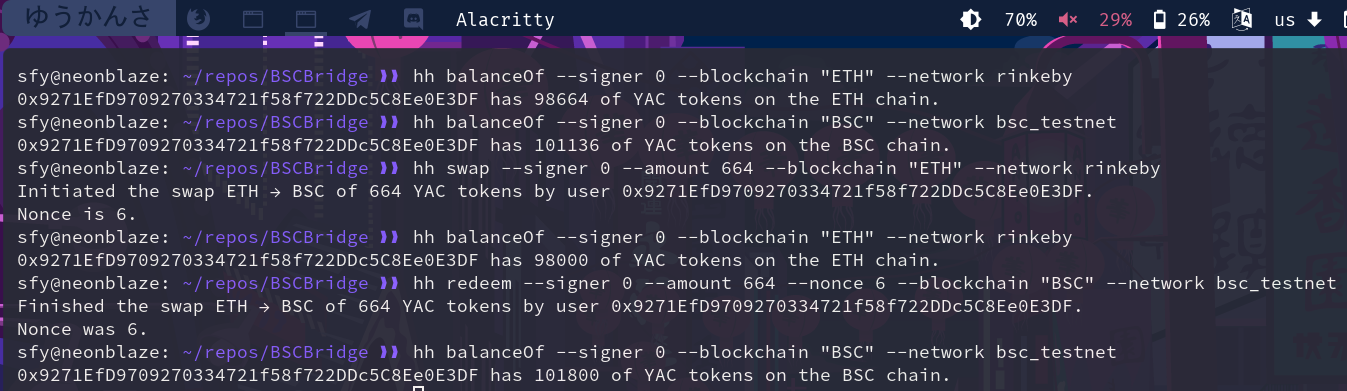
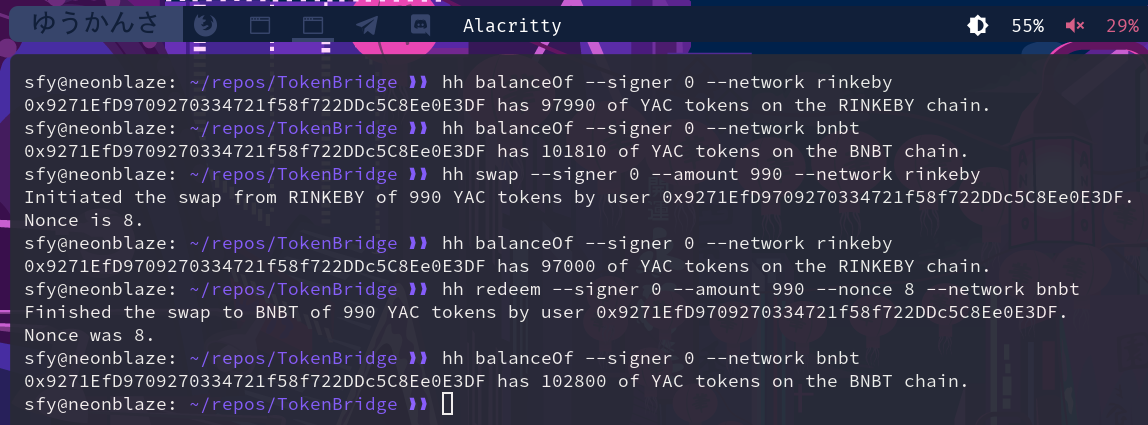
Updated network name and started using dynamic chain identification in tasks.

Changed region(s): [[0.0, 0.0, 1.0, 1.0]]

diff --git a/tasks/redeem.ts b/tasks/redeem.ts
@@ -7,29 +7,26 @@ task("redeem",
   .addParam("signer", "ID of the signer used to make the call.")
   .addParam("amount", "The amount of ERC20 tokens to be swapped.")
   .addParam("nonce", "Bridge operation counter value.")
-  .addParam("blockchain", "Blockchain (ETH or BSC).")
   .setAction(async (args, { ethers }) => {
-    let blockchain: string;
-    let log: string;
 
-    if (args.blockchain === "ETH") {
-      blockchain = config.BRIDGE_ETH_ADDRESS;
-      log = "BSC → ETH";
-    } else if (args.blockchain === "BSC") {
-      blockchain = config.BRIDGE_BSC_ADDRESS;
-      log = "ETH → BSC";
-    } else {
-      throw "ERROR: Blockchain must be ETH or BSC."
-    }
-
+    let bridgeAddress: string;
+    const network = await ethers.provider.getNetwork();
     const signerArray = await ethers.getSigners();
 
+    if (network.chainId === 4) {
+      bridgeAddress = config.BRIDGE_RINKEBY_ADDRESS;
+    } else if (network.chainId === 97) {
+      bridgeAddress = config.BRIDGE_BNBT_ADDRESS;
+    } else {
+      throw "ERROR: Network must be Rinkeby or BNBT."
+    }
+
     const Bridge = await ethers.getContractFactory("Bridge");
-    const bridge = Bridge.attach(blockchain);
+    const bridge = Bridge.attach(bridgeAddress);
 
     let messageHash = ethers.utils.solidityKeccak256(
       ["address", "address", "uint256", "uint256"],
-      [signerArray[args.signer].address, blockchain,
+      [signerArray[args.signer].address, bridgeAddress,
       args.amount, args.nonce]
     );
 
@@ -49,8 +46,8 @@ task("redeem",
     const amount = rRedeem.events[1].args[1];
     const nonce = rRedeem.events[1].args[2];
 
-    console.log("Finished the swap " + log + " of " + amount
-      + " YAC tokens by user " + user + ".\n" + "Nonce was "
+    console.log("Finished the swap to " + network.name.toUpperCase() + " of "
+      + amount + " YAC tokens by user " + user + ".\n" + "Nonce was "
       + nonce + ".");
 
   });

diff --git a/tasks/swap.ts b/tasks/swap.ts
@@ -6,25 +6,22 @@ task("swap",
   "Initiate the swap of ERC20 token between 2 blockchains.")
   .addParam("signer", "ID of the signer used to make the call.")
   .addParam("amount", "The amount of ERC20 tokens to be swapped.")
-  .addParam("blockchain", "Blockchain (ETH or BSC).")
   .setAction(async (args, { ethers }) => {
-    let blockchain: string;
-    let log: string;
 
-    if (args.blockchain === "ETH") {
-      blockchain = config.BRIDGE_ETH_ADDRESS;
-      log = "ETH → BSC";
-    } else if (args.blockchain === "BSC") {
-      blockchain = config.BRIDGE_BSC_ADDRESS;
-      log = "BSC → ETH";
-    } else {
-      throw "ERROR: Blockchain must be ETH or BSC."
-    }
-
+    let bridgeAddress: string;
+    const network = await ethers.provider.getNetwork();
     const signerArray = await ethers.getSigners();
 
+    if (network.chainId === 4) {
+      bridgeAddress = config.BRIDGE_RINKEBY_ADDRESS;
+    } else if (network.chainId === 97) {
+      bridgeAddress = config.BRIDGE_BNBT_ADDRESS;
+    } else {
+      throw "ERROR: Network must be Rinkeby or BNBT."
+    }
+
     const Bridge = await ethers.getContractFactory("Bridge");
-    const bridge = Bridge.attach(blockchain);
+    const bridge = Bridge.attach(bridgeAddress);
 
     const txSwap = bridge.connect(signerArray[args.signer]).swap(
       args.amount
@@ -36,7 +33,7 @@ task("swap",
     const amount = rSwap.events[1].args[1];
     const nonce = rSwap.events[1].args[2];
 
-    console.log("Initiated the swap " + log + " of " + amount
+    console.log("Initiated the swap from " + network.name.toUpperCase() + " of " + amount
       + " YAC tokens by user " + user + ".\n" + "Nonce is " + nonce + ".");
 
   });

diff --git a/tasks/balanceOf.ts b/tasks/balanceOf.ts
@@ -5,27 +5,27 @@ import config from '../config';
 task("balanceOf",
   "Get the balance YAC of the account in the ETH/BSC networks.")
   .addParam("signer", "ID of the signer used to make the call.")
-  .addParam("blockchain", "Blockchain (ETH or BSC).")
   .setAction(async (args, { ethers }) => {
 
-    let blockchain: string;
-
-    if (args.blockchain === "ETH") {
-      blockchain = config.YAC_ETH_ADDRESS;
-    } else if (args.blockchain === "BSC") {
-      blockchain = config.YAC_BSC_ADDRESS;
-    } else {
-      throw "ERROR: Blockchain must be ETH or BSC."
-    }
-
+    let tokenAddress: string;
+    const network = await ethers.provider.getNetwork();
     const signerArray = await ethers.getSigners();
 
+    if (network.chainId === 4) {
+      tokenAddress = config.YAC_RINKEBY_ADDRESS;
+    } else if (network.chainId === 97) {
+      tokenAddress = config.YAC_BNBT_ADDRESS;
+    } else {
+      throw "ERROR: Network must be Rinkeby or BNBT."
+    }
+
     const YetAnotherCoin = await ethers.getContractFactory("YetAnotherCoin");
-    const yetAnotherCoin = YetAnotherCoin.attach(blockchain);
+    const yetAnotherCoin = YetAnotherCoin.attach(tokenAddress);
     const balanceOf = await yetAnotherCoin.balanceOf(
       signerArray[args.signer].address
     );
+
     console.log(signerArray[args.signer].address + " has " + balanceOf
-      + " of YAC tokens on the " + args.blockchain + " chain.");
+      + " of YAC tokens on the " + network.name.toUpperCase() + " chain.");
   });
 

diff --git a/scripts/deploy-bridge-eth.ts b/scripts/deploy-bridge-eth.ts
@@ -6,15 +6,15 @@ const updateDeploymentAddress = async (address: string) => {
   let config: string = './config.ts';
   fs.readFile(config, 'utf-8', (err: unknown, data: string) => {
     if (err) throw err;
-    let regex = /BRIDGE_ETH_ADDRESS: ".*",/g;
+    let regex = /BRIDGE_RINKEBY_ADDRESS: ".*",/g;
     let update = data.replace(
       regex,
-      'BRIDGE_ETH_ADDRESS: "' + address + '",'
+      'BRIDGE_RINKEBY_ADDRESS: "' + address + '",'
     );
 
     fs.writeFile(config, update, 'utf-8', (err: unknown) => {
       if (err) throw err;
-      console.log('Updated BRIDGE_ETH_ADDRESS in config.ts.');
+      console.log('Updated BRIDGE_RINKEBY_ADDRESS in config.ts.');
     });
   });
 };
@@ -22,7 +22,7 @@ const updateDeploymentAddress = async (address: string) => {
 const main = async () => {
   const Bridge = await ethers.getContractFactory("Bridge");
   const bridge = await Bridge.deploy(
-    config.YAC_ETH_ADDRESS
+    config.YAC_RINKEBY_ADDRESS
   );
   await bridge.deployed();
   console.log("Bridge deployed to:", bridge.address);

diff --git a/scripts/deploy-bridge-bsc.ts b/scripts/deploy-bridge-bsc.ts
@@ -6,15 +6,15 @@ const updateDeploymentAddress = async (address: string) => {
   let config: string = './config.ts';
   fs.readFile(config, 'utf-8', (err: unknown, data: string) => {
     if (err) throw err;
-    let regex = /BRIDGE_BSC_ADDRESS: ".*",/g;
+    let regex = /BRIDGE_BNBT_ADDRESS: ".*",/g;
     let update = data.replace(
       regex,
-      'BRIDGE_BSC_ADDRESS: "' + address + '",'
+      'BRIDGE_BNBT_ADDRESS: "' + address + '",'
     );
 
     fs.writeFile(config, update, 'utf-8', (err: unknown) => {
       if (err) throw err;
-      console.log('Updated BRIDGE_BSC_ADDRESS in config.ts.');
+      console.log('Updated BRIDGE_BNBT_ADDRESS in config.ts.');
     });
   });
 };
@@ -22,7 +22,7 @@ const updateDeploymentAddress = async (address: string) => {
 const main = async () => {
   const Bridge = await ethers.getContractFactory("Bridge");
   const bridge = await Bridge.deploy(
-    config.YAC_BSC_ADDRESS
+    config.YAC_BNBT_ADDRESS
   );
   await bridge.deployed();
   console.log("Bridge deployed to:", bridge.address);

diff --git a/test/bridge-test.ts b/test/bridge-test.ts
@@ -17,15 +17,15 @@ describe("Bridge", () => {
 
     const Bridge = await ethers.getContractFactory("Bridge");
     bridge = await Bridge.deploy(
-      config.YAC_ETH_ADDRESS
+      config.YAC_RINKEBY_ADDRESS
     );
     await bridge.deployed();
 
     const YetAnotherCoin = await ethers.getContractFactory("YetAnotherCoin");
-    yetAnotherCoin = YetAnotherCoin.attach(config.YAC_ETH_ADDRESS);
+    yetAnotherCoin = YetAnotherCoin.attach(config.YAC_RINKEBY_ADDRESS);
   });
 
-  it("swap: should be able to initiate the swap of 10 YAC tokens owner → user", async () => {
+  it("swap: should be able to initiate the swap of 10 YAC tokens", async () => {
     await yetAnotherCoin.connect(owner).mint(owner.address, 1000);
 
     const txSwap = bridge.connect(owner).swap(10);

diff --git a/config.ts b/config.ts
@@ -1,8 +1,8 @@
 const config = {
-  BRIDGE_BSC_ADDRESS: "0xF4Fd87c6bACf11984152e59F04451d063ce348ab",
-  BRIDGE_ETH_ADDRESS: "0x03Bf536B5D8ec4D324E71F4775f690988D48180d",
-  YAC_BSC_ADDRESS: "0xf55aBB498A19Fe90B039BC30aAD11C2e9f71bab1",
-  YAC_ETH_ADDRESS: "0xB069A157Ed653d91765eA1E8bAc5c18454A83Ba4"
+  BRIDGE_BNBT_ADDRESS: "0xF4Fd87c6bACf11984152e59F04451d063ce348ab",
+  BRIDGE_RINKEBY_ADDRESS: "0x03Bf536B5D8ec4D324E71F4775f690988D48180d",
+  YAC_BNBT_ADDRESS: "0xf55aBB498A19Fe90B039BC30aAD11C2e9f71bab1",
+  YAC_RINKEBY_ADDRESS: "0xB069A157Ed653d91765eA1E8bAc5c18454A83Ba4"
 };
 
 export default config;

diff --git a/hardhat.config.ts b/hardhat.config.ts
@@ -37,7 +37,7 @@ const config: HardhatUserConfig = {
         process.env.ACCOUNT3_KEY ?? ""
       ],
     },
-    bsc_testnet: {
+    bnbt: {
       url: "https://data-seed-prebsc-1-s1.binance.org:8545",
       chainId: 97,
       gasPrice: 20000000000,

diff --git a/README.md b/README.md
@@ -1,15 +1,15 @@
-# BSC Bridge 🌉
+# Rinkeby-BNBT ERC20 Token Bridge 🌉
 
-A BSC-ETH blockchain bridge implementation for a sample ERC-20 token. 
+A BNBT-Rinkeby blockchain bridge implementation for a sample ERC20 token. 
 
 ## Features
 
 - [x] Uses ECDSA for signature verification in redeem().
-- [x] All contracts are deployed to BSC and Ethereum (Rinkeby) testnets and verified on Etherscan/BscScan:
-  - [BSC Bridge](https://testnet.bscscan.com/address/0xF4Fd87c6bACf11984152e59F04451d063ce348ab#code): @0xF4Fd87c6bACf11984152e59F04451d063ce348ab
-  - [ETH Bridge](https://rinkeby.etherscan.io/address/0x03Bf536B5D8ec4D324E71F4775f690988D48180d#code): @0x03Bf536B5D8ec4D324E71F4775f690988D48180d
-  - [YAC token (BSC)](https://testnet.bscscan.com/address/0xf55aBB498A19Fe90B039BC30aAD11C2e9f71bab1#code): @0xf55aBB498A19Fe90B039BC30aAD11C2e9f71bab1
-  - [YAC token (ETH)](https://rinkeby.etherscan.io/address/0xB069A157Ed653d91765eA1E8bAc5c18454A83Ba4#code): @0xB069A157Ed653d91765eA1E8bAc5c18454A83Ba4
+- [x] All contracts are deployed to BNBT and Ethereum (Rinkeby) testnets and verified on Etherscan/BscScan:
+  - [BNBT Bridge](https://testnet.bscscan.com/address/0xF4Fd87c6bACf11984152e59F04451d063ce348ab#code): @0xF4Fd87c6bACf11984152e59F04451d063ce348ab
+  - [Rinkeby Bridge](https://rinkeby.etherscan.io/address/0x03Bf536B5D8ec4D324E71F4775f690988D48180d#code): @0x03Bf536B5D8ec4D324E71F4775f690988D48180d
+  - [YAC token (BNBT)](https://testnet.bscscan.com/address/0xf55aBB498A19Fe90B039BC30aAD11C2e9f71bab1#code): @0xf55aBB498A19Fe90B039BC30aAD11C2e9f71bab1
+  - [YAC token (Rinkeby)](https://rinkeby.etherscan.io/address/0xB069A157Ed653d91765eA1E8bAc5c18454A83Ba4#code): @0xB069A157Ed653d91765eA1E8bAc5c18454A83Ba4
 - [x] Tests provide a 100% coverage in accordance with _solidity-coverage_.
 - [x] Tasks for swap(), redeem(), and to fetch YAC token balances on each chain.
 - [x] Contracts are 100% covered with NatSpec.

diff --git a/docs/Bridge.md b/docs/Bridge.md
@@ -2,7 +2,7 @@
 
 *Sfy Mantissa*
 
-> A BSC-ETH blockchain bridge implementation for         a sample ERC-20 token. 
+> A BNBT-Rinkeby blockchain bridge implementation for a sample        ERC20 token. 
 
 
 
@@ -91,7 +91,7 @@ function token() external view returns (contract IYetAnotherCoin)
 
 
 
-*ERC-20 token interface used.*
+*ERC20 token interface used.*
 
 
 #### Returns
